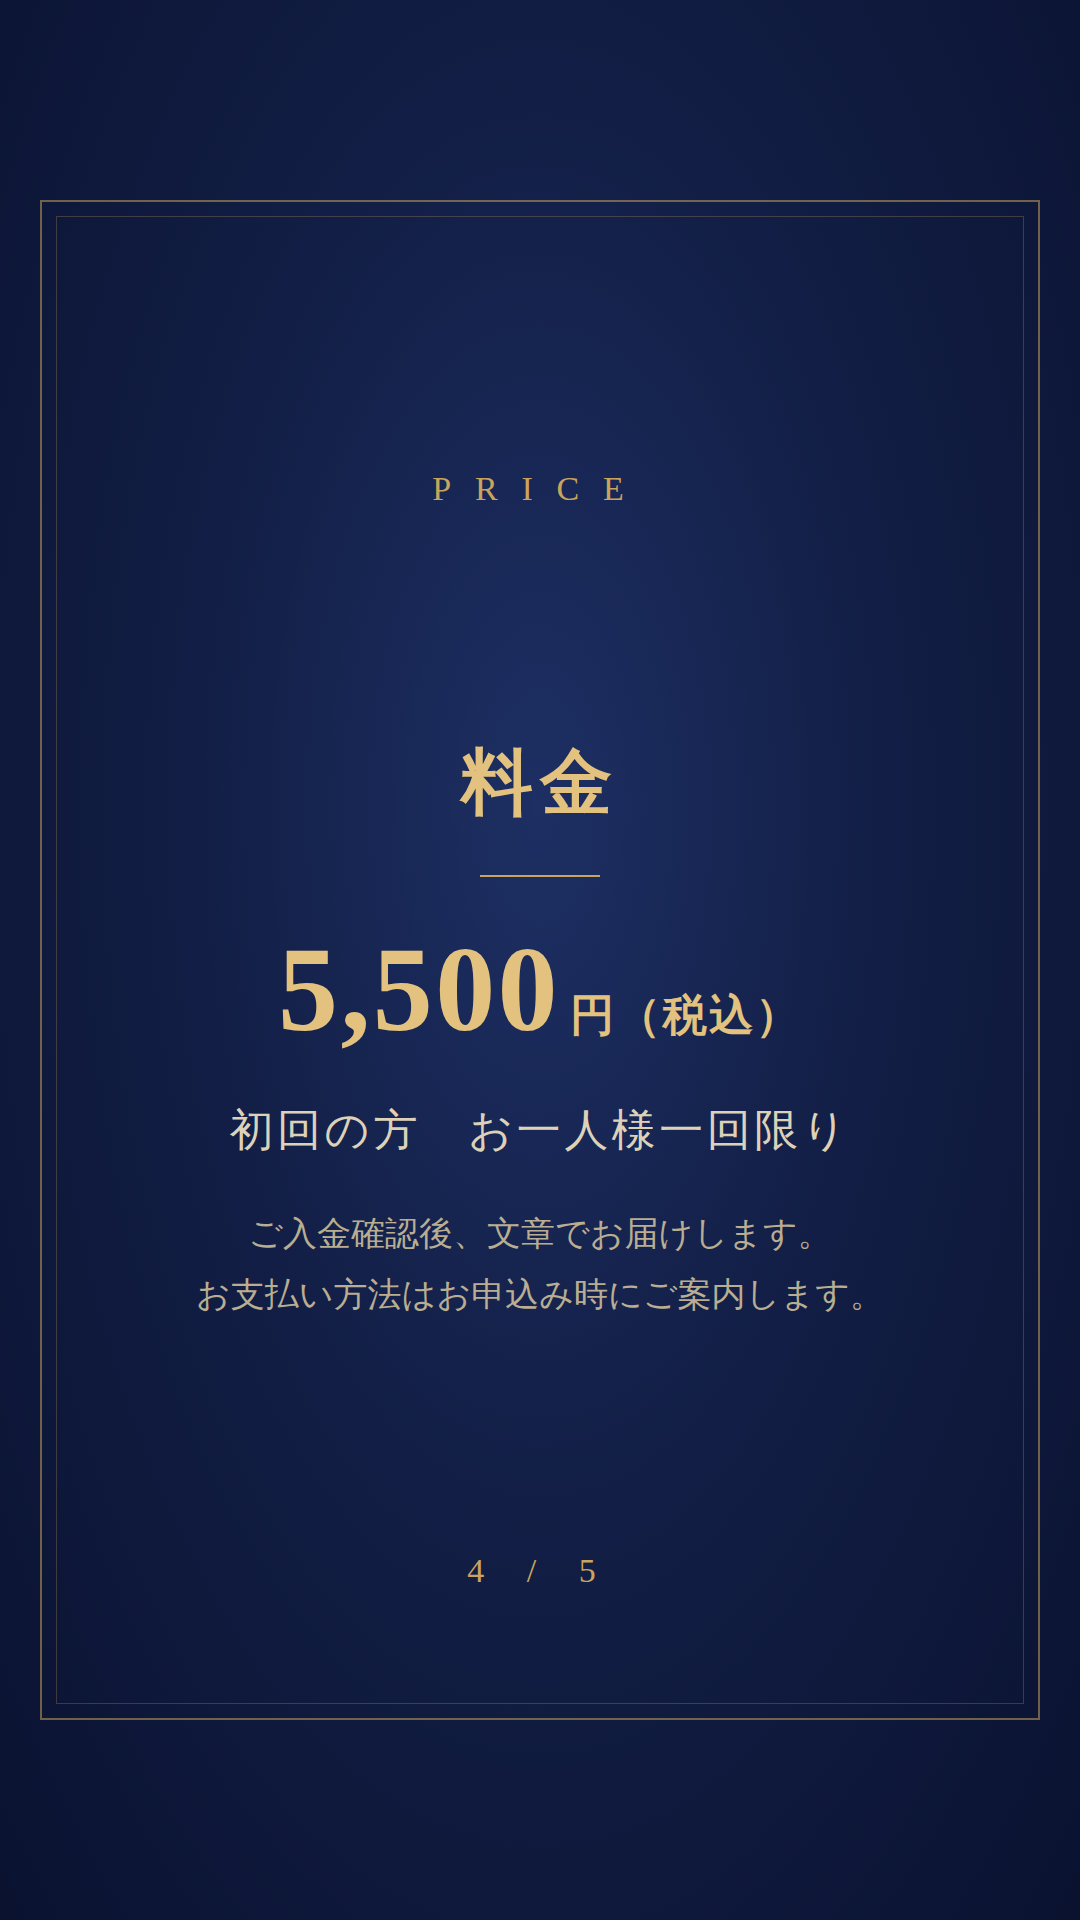
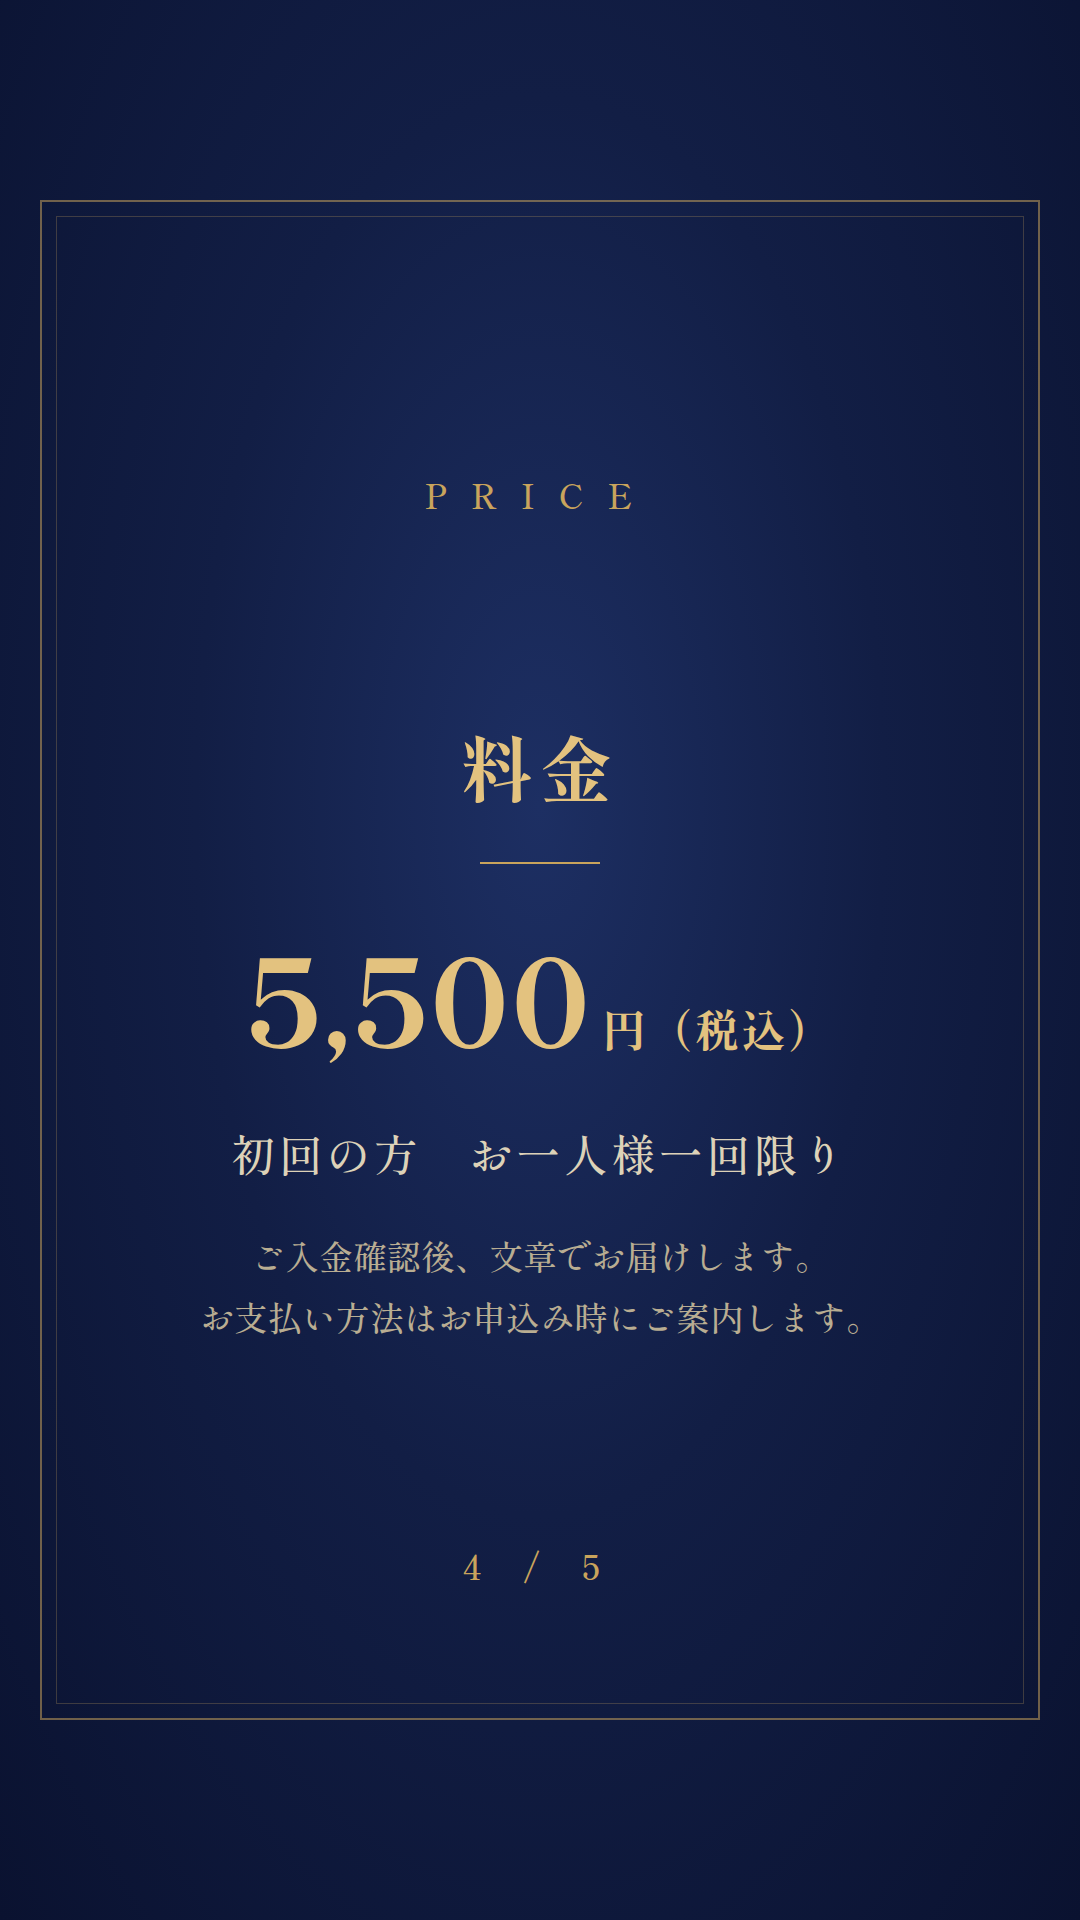
文章鑑定ストーリーズ：明朝フォントが読み込まれていなかった不具合を修正、文言修正（1〜3・5枚目）
Claude-Session: https://claude.ai/code/session_01MFDsaTwboDwHmFFa1ot2LW

diff --git a/insta/bunsho/story.js b/insta/bunsho/story.js
@@ -16,11 +16,11 @@ const css=`@font-face{font-family:S;src:url(${F}/sm5.ttf);font-weight:500}@font-
 .note{font-size:34px;color:#b9ad92;line-height:1.8;margin-top:30px}
 .pg{position:absolute;bottom:330px;width:100%;text-align:center;color:#c9a45c;font-size:34px;letter-spacing:.5em}`;
 const P=[
-`<div class=lab>MENU</div><div class=wrap>${yy}<div style="height:50px"></div><div class=badge>初回限定</div><div class=t>文章鑑定</div><div class=ln></div><div class=s>いま一番知りたいことを一つ、<br>易で観て、文章でお答えします</div></div>`,
-`<div class=lab>FOR YOU</div><div class=wrap style="left:80px;right:80px"><div class=h>こんな迷いに</div><div class=ln></div><div class=li style="font-size:35px;line-height:2.1;white-space:nowrap"><b>・</b>この人(会社)と取引して良いか？<br><b>・</b>この人は信用できる人か？<br><b>・</b>この話を受けるべきか？<br><b>・</b>今の仕事を辞めて転職すべきか？<br><b>・</b>今年事業を大幅に拡大しても良いか？<br><b>・</b>今の仕事でもっと成果を出す為に必要な事は何か？</div></div>`,
-`<div class=lab>CONTENTS</div><div class=wrap><div class=h>鑑定の内容</div><div class=ln></div><div class=li><b>一</b>ご質問は一つ（一問一卦）<br><b>二</b>得た卦と爻、その意味<br><b>三</b>いまの状況の読み解き<br><b>四</b>これからの動き方の助言</div><div class=note>明治の易聖・高島嘉右衛門の<br>『高島易断』に基づいて観ます。</div></div>`,
+`<div class=lab>MENU</div><div class=wrap>${yy}<div style="height:50px"></div><div class=badge>初回限定</div><div class=t>文章鑑定</div><div class=ln></div><div class=s>いま一番知りたいことを一つ、<br>易で観て文章でお答えします</div></div>`,
+`<div class=lab>FOR YOU</div><div class=wrap style="left:80px;right:80px"><div class=h>こんな迷いに</div><div class=ln></div><div class=li style="font-size:35px;line-height:2.1;white-space:nowrap"><b>・</b>この人(会社)と取引して良いか？<br><b>・</b>この人は信用できる人か？<br><b>・</b>この話を受けるべきか？<br><b>・</b>今の仕事を辞めて転職すべきか？<br><b>・</b>今年事業を大幅に拡大しても良いか？<br><b>・</b>今の仕事でもっと成果を出す為に必要な事は何か？</div><div class=note style="margin-top:50px">迷いの中にいる時ほど<br>自分では答えが見えなくなります。</div></div>`,
+`<div class=lab>CONTENTS</div><div class=wrap><div class=h>鑑定の内容</div><div class=ln></div><div class=li><b>一</b>ご質問は一つ（一問一卦）<br><b>二</b>いまの状況の読み解き<br><b>三</b>これからの動き方の助言</div></div>`,
 `<div class=lab>PRICE</div><div class=wrap><div class=h>料金</div><div class=ln></div><div class=price>5,500<small>円（税込）</small></div><div class=s style="margin-top:30px">初回の方　お一人様一回限り</div><div class=note>ご入金確認後、文章でお届けします。<br>お支払い方法はお申込み時にご案内します。</div></div>`,
-`<div class=lab>CONTACT</div><div class=wrap>${yy}<div style="height:40px"></div><div class=h>お申込み</div><div class=ln></div><div class=s>プロフィールのリンクから<br>お気軽にどうぞ</div><div class=note>さらに詳しく、本質やこれからの流れまで<br>観たい方は　個別鑑定（初回 55,000円）</div></div>`];
-(async()=>{const b=await chromium.launch({executablePath:'/opt/pw-browsers/chromium'});const p=await b.newPage({viewport:{width:1080,height:1920}});
- for(let i=0;i<P.length;i++){await p.setContent(`<html><head><style>${css}</style></head><body><div class=f1></div><div class=f2></div>${P[i]}<div class=pg>${i+1} / ${P.length}</div></body></html>`);await p.evaluate(()=>document.fonts.ready);await p.waitForTimeout(200);await p.screenshot({path:`${OUT}/bunsho_${i+1}.png`});}
+`<div class=lab>CONTACT</div><div class=wrap>${yy}<div style="height:40px"></div><div class=h>お申込み</div><div class=ln></div><div class=s>プロフィールのリンクから<br>お気軽にどうぞ</div><div class=note>詳しく見たい方は個別鑑定をどうぞ</div></div>`];
+(async()=>{const b=await chromium.launch({executablePath:'/opt/pw-browsers/chromium'});const p=await b.newPage({viewport:{width:1080,height:1920}});await p.goto('file://'+path.resolve('blank.html'));
+ for(let i=0;i<P.length;i++){await p.setContent(`<html><head><style>${css}</style></head><body><div class=f1></div><div class=f2></div>${P[i]}<div class=pg>${i+1} / ${P.length}</div></body></html>`);await p.evaluate(async()=>{await document.fonts.load('500 40px S','あ');await document.fonts.load('800 40px S','あ');await document.fonts.ready;});const ok=await p.evaluate(()=>document.fonts.check('800 40px S','鑑'));if(!ok)throw new Error('font not loaded');await p.waitForTimeout(200);await p.screenshot({path:`${OUT}/bunsho_${i+1}.png`});}
  await b.close();})();
